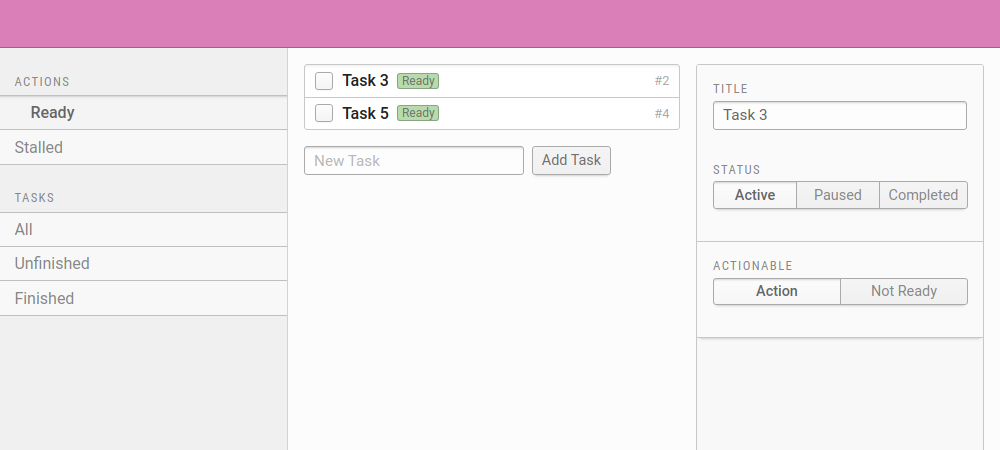
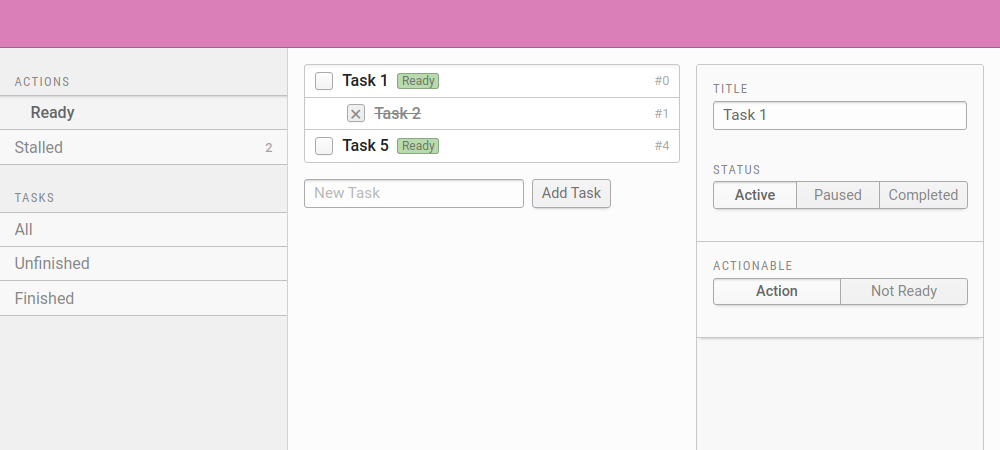
Add child task to default example data and update screenshot

diff --git a/tasks.ts b/tasks.ts
@@ -23,10 +23,20 @@ type Task = TreeNode<TaskData>;
 export type Tasks = Tree<TaskData>;
 
 export const empty: Tasks = [
-  {id: "0", title: "Task 1", status: "active", action: false, children: []},
-  {id: "1", title: "Task 2", status: "done", action: true, children: []},
-  {id: "2", title: "Task 3", status: "active", action: true, children: []},
-  {id: "3", title: "Task 4", status: "paused", action: false, children: []},
+  {
+    id: "0",
+    title: "Task 1",
+    status: "active",
+    action: true,
+    children: [{id: "1", title: "Task 2", status: "done", action: true, children: []}],
+  },
+  {
+    id: "2",
+    title: "Task 3",
+    status: "active",
+    action: true,
+    children: [{id: "3", title: "Task 4", status: "paused", action: false, children: []}],
+  },
   {id: "4", title: "Task 5", status: "active", action: true, children: []},
 ];
 
